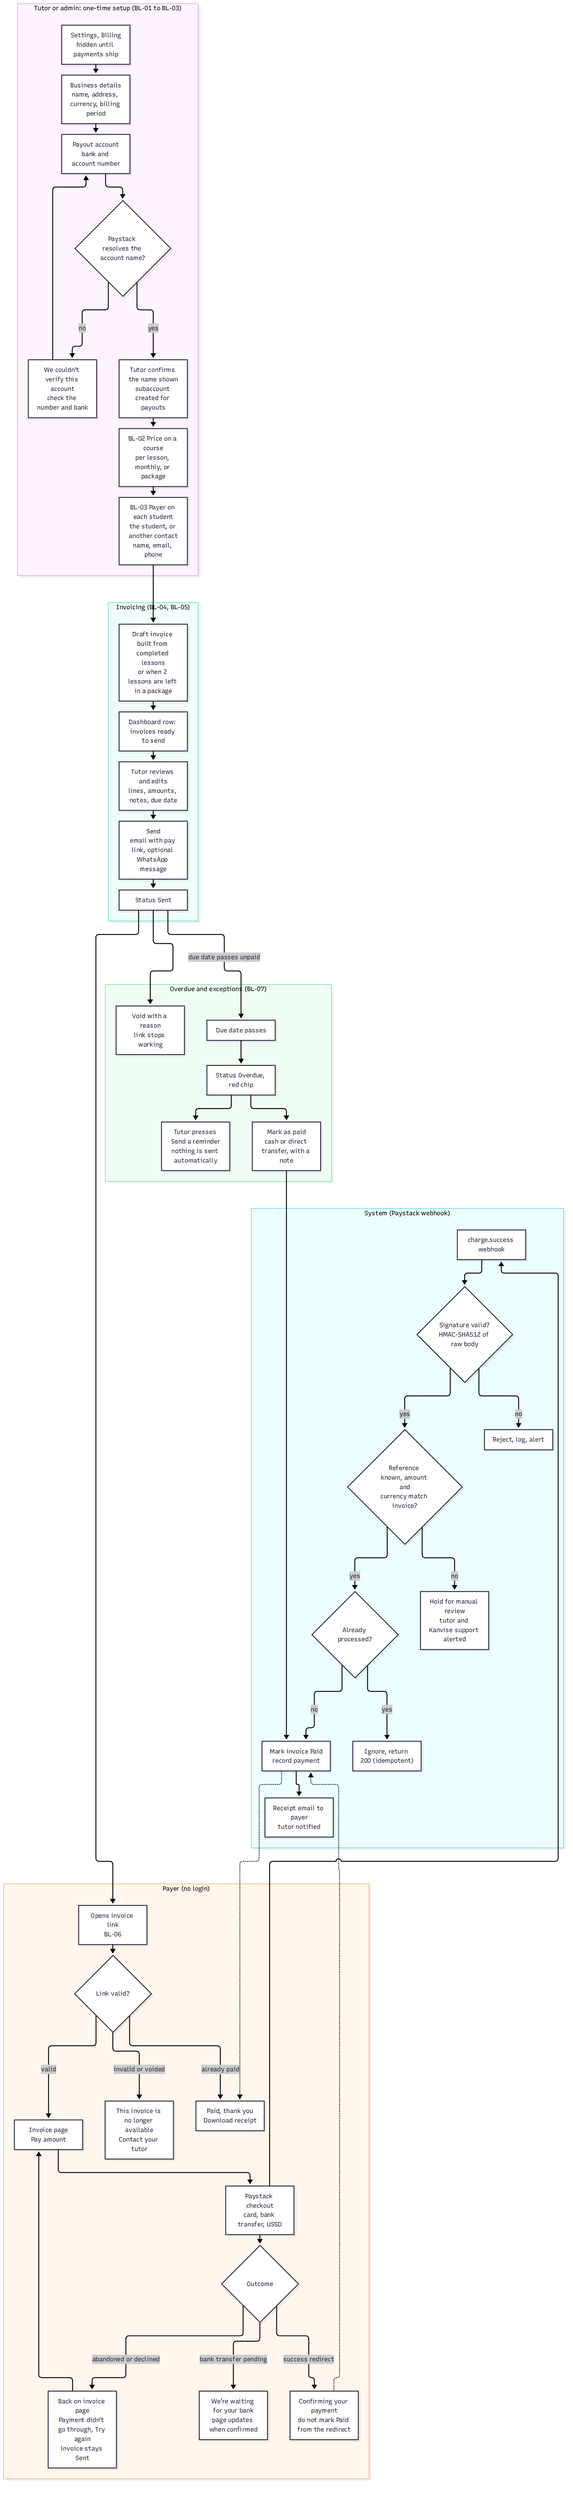
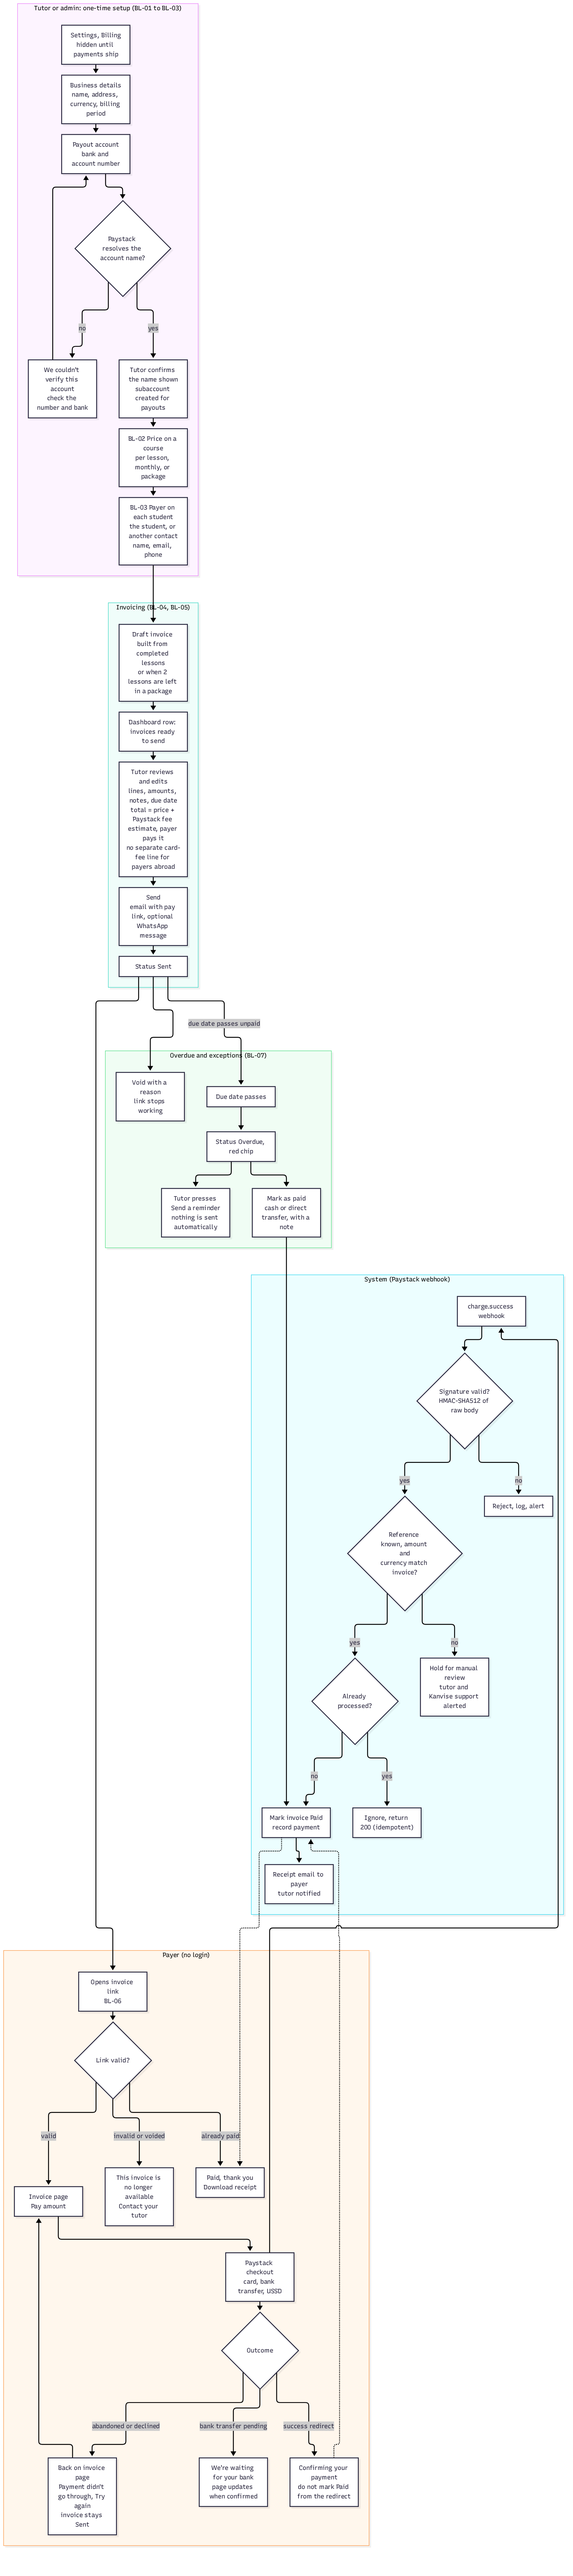
docs(design): payer pays Paystack fee (D-21), progress on by default (D-20), payments currency and fee design from Paystack docs

diff --git a/docs/design/user-flows/03-decisions-and-open-questions.md b/docs/design/user-flows/03-decisions-and-open-questions.md
@@ -1,8 +1,9 @@
 # Decisions and open questions
 
-Written 28 Nov 2026. The owner approved decisions D-01 to D-19 on 28 Nov. They are
-applied to the redesign specs on this branch, except D-15 (payments) and D-16
-(progress features), which stay proposals, and D-11 and D-14, which need no spec change.
+Written 28 Nov 2026. The owner approved decisions D-01 to D-21 on 28 Nov (D-20 and D-21 are the owner's own answers). They are
+applied to the redesign specs on this branch, except D-15 (payments), D-16
+(progress features), D-20 and D-21, which are written into the proposals in
+`04-payments.md` and `05-gamification.md`, and D-11 and D-14, which need no spec change.
 **OQ-** items still need the owner.
 
 Spec files changed: `02`, `05`, `07`, `09`, `10`, `11`, `12`, `17`, `18`, `19`, and the new
@@ -17,6 +18,8 @@ The spec checker (`history/check.py`) passes.
 - Payments: design the flow from standard practice. See `04-payments.md`.
 - Gamification: design it. See `05-gamification.md`.
 - Reports: leave for now.
+- Payments: the payer pays Paystack's fee, and Kanvise's own fee is revisited later (D-21).
+- Progress features: on by default (D-20).
 
 ## Decisions (D-)
 
@@ -38,6 +41,8 @@ The spec checker (`history/check.py`) passes.
 | D-14 | Old data migration | None needed (owner) | Owner | none |
 | D-15 | Payments | Proposal in `04-payments.md` | Owner asked for it | 13 |
 | D-16 | Gamification | Proposal in `05-gamification.md`, no leaderboard | Owner asked for it, plus research | new |
+| D-20 | Should progress features be on or off for new courses? | **On by default** for every new course (owner, 28 Nov). The tutor can switch it off per course or for the whole account | Most students benefit and it asks the tutor for nothing. Supersedes OQ-08 | `05-gamification.md` |
+| D-21 | Who pays Paystack's fee? | **The payer** (owner, 28 Nov). Kanvise's own fee is revisited later | Tutors keep the full price of their lessons | `04-payments.md`, 13 |
 | D-17 | Settings group names are unclear: YOUR TEACHING covers agency-wide settings and shows for admins who do not teach. Teaching preferences holds team size, audience and subjects | Rename groups: YOU becomes **PERSONAL**, YOUR TEACHING becomes **LESSONS**, ACCOUNT stays. Rename Teaching preferences to **How you teach**. Leave Lessons and classroom, and Data and privacy as they are | The names now say what is inside | 12 Layout, CFG-T |
 | D-18 | Business details asks independent tutors for a name and photo twice (CFG-P and CFG-A). "Business" does not fit a tutor, and "Account details" reads like bank details | One shared section for both account types, called **General** (it replaces Business details). Same screen and component; the fields shown depend on the account type. Agencies see name, logo, timezone and currency. Independent tutors see only timezone and currency, because their name and photo come from **My profile** (the account name defaults to the tutor's own name) | One screen to build and test, no duplicated fields, a word that fits everyone. Supersedes the earlier idea of a separate Agency section | 12 CFG-P, CFG-A |
 | D-19 | Design principle, not a screen: prefer one component with conditions over parallel screens for each account type | Where independent tutors and agencies differ, show or hide fields and rows on the same screen. Build separate screens only when the task is different (for example Tutors and Team pages, which only agencies have). AI makes writing code cheaper, but every extra variant still has to be tested, kept in sync and explained to users | Balances product design with build and maintenance cost | All specs |
@@ -46,16 +51,17 @@ The spec checker (`history/check.py`) passes.
 
 | ID | Question | My recommendation |
 |---|---|---|
-| OQ-01 | Which currency will UK and North American families pay in, since Paystack's documents list NGN, GHS, ZAR, KES and USD? | Accept USD at first and check whether a second provider is needed |
-| OQ-02 | Who pays the Kanvise fee and the Paystack fee? | Tutor pays; show it before they turn billing on |
+| OQ-01 | What price do families abroad see? Paystack's support page says cards from anywhere work, a Nigeria-based business is charged and paid in NGN by default, and USD payouts need a Zenith USD account. GBP is not offered | NGN for everyone at first, then USD for payers abroad once a USD account exists. Also confirm whose Paystack business holds the account |
+| OQ-02 | Kanvise's own fee (the Paystack fee is paid by the payer, D-21) | Decide later, as the owner said. Show it on its own line when it exists |
 | OQ-03 | Payment before the revamp: should the product show any payment step now? | No payment step in the product until the revamp ships. Tutors are paid directly, outside Kanvise |
 | OQ-04 | Is there a mascot, or just a profile photo? | Profile photo only |
 | OQ-05 | Does an admin with no I teach too see "Summaries to write" and "Homework to mark"? Spec 03 only says "admins who teach" | Show the counts as the agency's totals, labelled for admins |
 | OQ-06 | What does a tutor see after being removed from an agency but belonging to another one? | They keep the other account; show the account picker |
 | OQ-07 | Reports and weekly digests | Parked by the owner |
-| OQ-08 | Gamification: turn on by default for new courses, or off? | Off, tutor opts in |
+| OQ-08 | Gamification: turn on by default for new courses, or off? | Answered: on by default (D-20) |
 | OQ-09 | Agency settings Bobbin has and Kanvise lacks: an activity log (who changed what), role checkboxes for who can view recordings, and an organization-wide recording-consent default | Add an activity log for agencies later. Keep the single recordings switch and per-student consent for now |
 | OQ-10 | A wording pass over every label and message that tutors, students and admins read, with a short glossary of plain terms | Do it before the first screens are built |
+| OQ-11 | Fee line on invoices: the fee depends on the card, which is unknown until the payer pays; and UK law bans card surcharges on consumers (since 13 Jan 2018) | Estimate by payer region, built into one total for payers abroad with no separate card-fee line, and have a lawyer check the UK and other countries |
 
 ## Contradictions found in the specs
 

diff --git a/docs/design/user-flows/04-payments.md b/docs/design/user-flows/04-payments.md
@@ -92,13 +92,57 @@ The invoice is flagged **Disputed**, the tutor and Kanvise support are alerted,
 and the tutor can attach evidence from records Kanvise already has (lesson
 dates, attendance, summaries). Outcome: won (stays Paid) or lost (Chargeback).
 
+## Fees (decision D-21)
+
+The owner decided on 28 Nov that **the payer pays Paystack's processing fee**.
+Kanvise's own fee is decided later (OQ-02), and the design leaves room for it as
+a separate line.
+
+How it works:
+
+- The invoice total is the tutor's price plus the processing fee, so the tutor
+  receives the full price for their lessons. The invoice shows the price, the
+  fee and the total. Paystack can also be set so a subaccount, not the main
+  account, bears its fees ([Paystack transaction API](https://paystack.com/docs/api/transaction/)),
+  but that moves the fee to the tutor, so it is not used here.
+- Paystack's fee depends on the card. For a Nigeria-based business Paystack lists
+  3.9% plus NGN 100 for international cards charged in NGN, and 3.9% for USD
+  ([Paystack: international payments](https://support.paystack.com/en/articles/2130690)).
+  Local card rates are different and not on that page. Kanvise does not know the
+  card until the payer pays, so the fee on the invoice is an **estimate by payer
+  region** (local or international), worked out when the invoice is drafted, in
+  whole subunits and rounded up.
+- If the real fee differs from the estimate, the difference is settled in
+  Kanvise's own fee later. Nobody is asked for a second payment. (OQ-11.)
+- A tutor can see the fee before they send, and can change the payer's region.
+
+**UK rule to check before building.** Since 13 January 2018 UK shops may not
+charge consumers extra for paying by debit or credit card
+([GOV.UK](https://www.gov.uk/government/news/card-surcharge-ban-means-no-more-nasty-surprises-for-shoppers)).
+A separate "card fee" line on an invoice to a UK family could break that rule.
+The safer design for payers abroad is one total, with the processing cost built
+into the price the tutor sees and agrees, and no separate card-fee line. Other
+countries may have similar rules, and this needs a lawyer's check (OQ-11). I am
+not giving legal advice.
+
 ## Currency
 
-Paystack's documents list NGN, GHS, ZAR, KES and USD for card charges
-([minimum amounts list](https://paystack.com/docs/payments/recurring-charges/)).
-I did not find GBP there. Kanvise serves families in the UK and North America
-(00 section 1), so before building decide whether those payers pay in USD, or
-whether a second provider is needed. This is open question **OQ-01**.
+Paystack's support page on international payments says:
+
+- Customers anywhere can pay with Mastercard, Visa or Verve cards. A business
+  has to switch international payments on and pass Paystack's checks first.
+- By default the charge and the payout are in the business's own currency. The
+  payer's bank converts. So a UK family can pay a Nigerian-priced invoice with
+  their card.
+- Nigeria-based businesses can also be paid in USD, but need a Zenith Bank USD
+  domiciliary account for USD payouts.
+- GBP is not listed as a currency a business can price in.
+
+So families abroad can pay. The open choice is what price they see: NGN, with
+their bank converting, or USD if a USD account is set up. Recommendation: show
+NGN to Nigerian payers, and USD to payers abroad once the USD account exists.
+Until then, NGN for everyone. Whose Paystack business holds the account (Kanvise's
+or each tutor's) decides which country's rules apply, so this stays open (OQ-01).
 
 ## Notifications to add to spec 18
 
@@ -120,9 +164,11 @@ history on the student page.
 
 ## Open questions (owner)
 
-- **OQ-01** Currency for abroad payers (above).
-- Who pays Kanvise's fee, and how much (13, DEV-PAY-013).
-- Who pays the Paystack fee: tutor, payer, or split.
+- **OQ-01** The price payers abroad see (above), and whose Paystack business
+  holds the account.
+- **OQ-02** Kanvise's own fee, later. The Paystack fee is paid by the payer (D-21).
+- **OQ-11** How the fee line is shown and settled: estimate by region, UK card
+  surcharge rule, and the difference between estimate and real fee.
 - Whether agencies bill under one subaccount or each tutor gets their own.
 
 ## Test ideas

diff --git a/docs/design/user-flows/05-gamification.md b/docs/design/user-flows/05-gamification.md
@@ -3,8 +3,9 @@
 Status: **proposal, not in the redesign specs.** The redesign retired the
 avatar builder, cohort programmes and the old XP, league and mascot ideas from
 `THE KANVISE EXPERIENCE.md` (00-decisions section 15). This file designs what
-could replace them, grounded in research and in who Kanvise is for now. It needs
-the owner's approval before any build ticket (**decision D-16**).
+could replace them, grounded in research and in who Kanvise is for now. The owner
+agreed to the direction (**D-16**) and decided it is **on by default** (**D-20**).
+Details below still need review before any build ticket.
 
 ## Why the old design does not fit
 
@@ -45,8 +46,10 @@ Kanvise. Measure after launch (see "How we know it works").
 2. **Private by default.** A student sees their own progress. The tutor sees it
    too. Nobody else does.
 3. **Compare with yourself.** Personal bests, progress bars, "your best week".
-4. **The tutor is in charge.** Progress is off until the tutor turns it on for a
-   course, and can turn it off again.
+4. **On by default, and the tutor is in charge.** Progress is on for every new
+   course (owner decision D-20), because most students benefit and it asks the
+   tutor for nothing. The tutor can switch it off for a course, or for the whole
+   account, at any time.
 5. **No shame.** No guilt notifications, no lives that lock learning, no
    public lists of who is behind.
 6. **Light on data and eyes.** Respect reduced motion and data-saver settings,
@@ -116,7 +119,7 @@ XP is never taken away. A redo gives no extra XP for the same homework.
 
 New tables on top of 20-data-model, nothing in existing ones changes:
 
-- `progress_settings` (course_id, enabled, weekly_goal, shared_goal_enabled)
+- `progress_settings` (course_id, enabled default true, weekly_goal, shared_goal_enabled default true for courses with 2 or more students)
 - `xp_events` (id, student_id, course_id, type, points, source_type, source_id,
   created_at) with a unique key on (student_id, source_type, source_id, type)
   so a replayed event cannot give points twice

diff --git a/docs/design/user-flows/qa/01-qa-test-plan.md b/docs/design/user-flows/qa/01-qa-test-plan.md
@@ -373,12 +373,16 @@ Real audio and video are checked manually. Automated runs use fake media devices
 | TC-PAY-011 | Dispute | Flag, alerts, evidence, outcomes | P1 | API |
 | TC-PAY-012 | Integer money | No floats, subunits only | P0 | Unit |
 | TC-PAY-013 | Payout account | Name resolved and confirmed before saving | P1 | E2E |
+| TC-PAY-014 | Payer pays Paystack fee (D-21) | Total equals price plus estimated fee; tutor's payout equals the price | P0 | API |
+| TC-PAY-015 | Fee rounding | Fee computed in whole subunits, rounded up, never negative | P0 | Unit |
+| TC-PAY-016 | No card-fee line for payers abroad | One total shown, no separate surcharge line (pending legal check, OQ-11) | P1 | E2E |
+| TC-PAY-017 | Payer region | Changing the payer's region recalculates the fee before sending | P1 | E2E |
 
 ## GM · Progress and motivation (proposal, build later)
 
 | ID | Scenario | Expected | Pri | Level |
 |---|---|---|---|---|
-| TC-GM-001 | Off by default | Nothing shown or recorded until the tutor turns it on | P0 | E2E |
+| TC-GM-001 | On by default (D-20) | A new course shows progress to its students with no setup; when the tutor switches it off, nothing is shown or recorded and past data is kept 30 days | P0 | E2E |
 | TC-GM-002 | XP idempotency | Replaying an event gives no extra XP | P0 | API |
 | TC-GM-003 | Weekly streak | Week met, week skipped (no lessons), freeze used | P1 | API |
 | TC-GM-004 | Tutor-caused misses | Cancelled or not held lessons do not break a streak | P0 | API |
